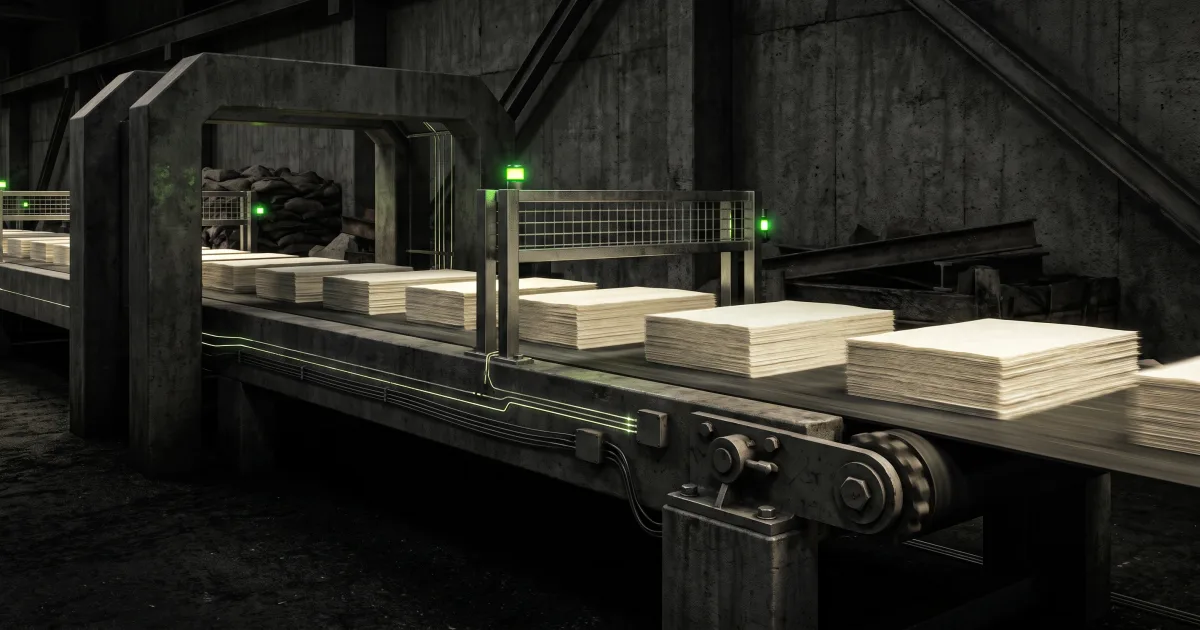
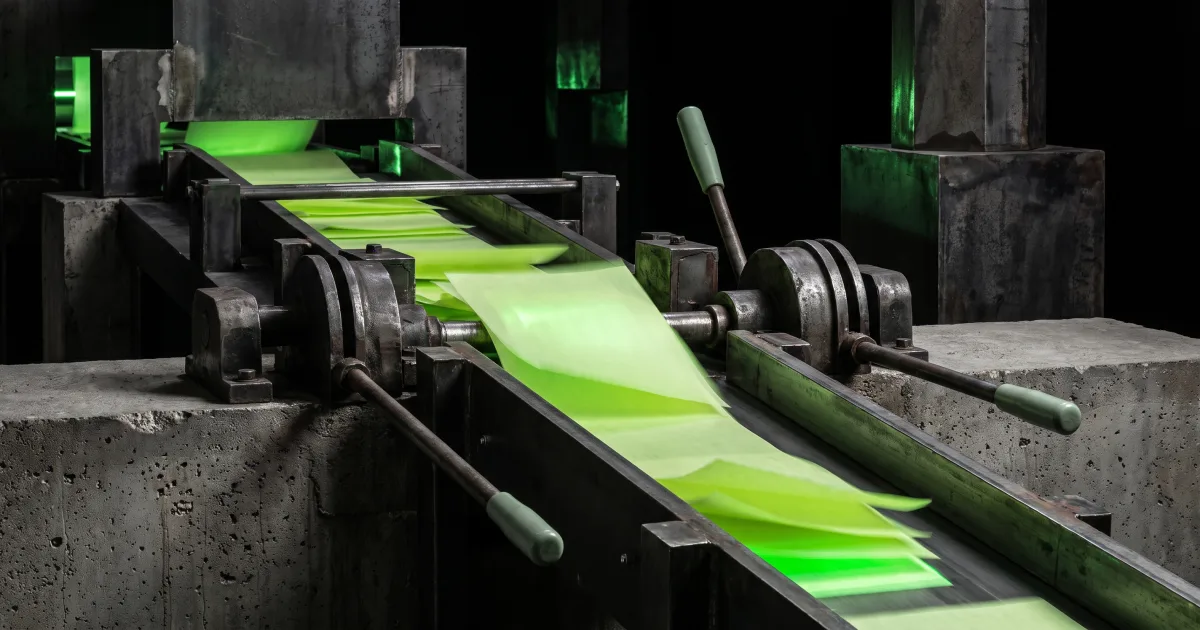
design(t_6398e646): finalize article visuals

diff --git a/src/drafts/bbbbc74e.md b/src/drafts/bbbbc74e.md
@@ -2,8 +2,9 @@
 layout: post.njk
 title: "When Output Gets Cheap, Operations Become the Advantage"
 excerpt: "AI is collapsing the price of an attempt, not the price of a dependable outcome. That is why operational competence, not raw production speed, is becoming the scarce strategic asset."
-anthem: true
+anthem: false
 permalink: /drafts/bbbbc74e/
+featuredImage: "/images/posts/when-output-gets-cheap-operations-become-the-advantage.webp"
 date: 2026-09-05
 ---
 
